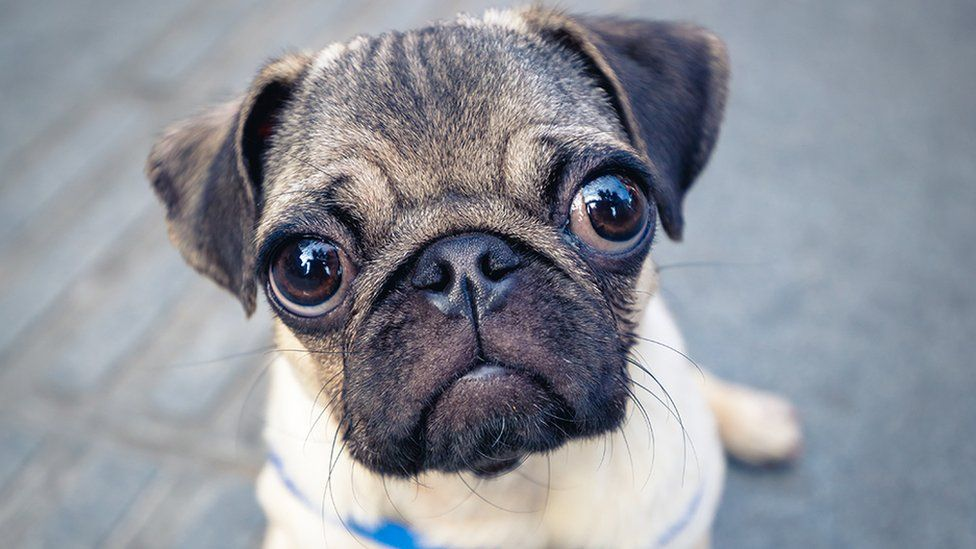
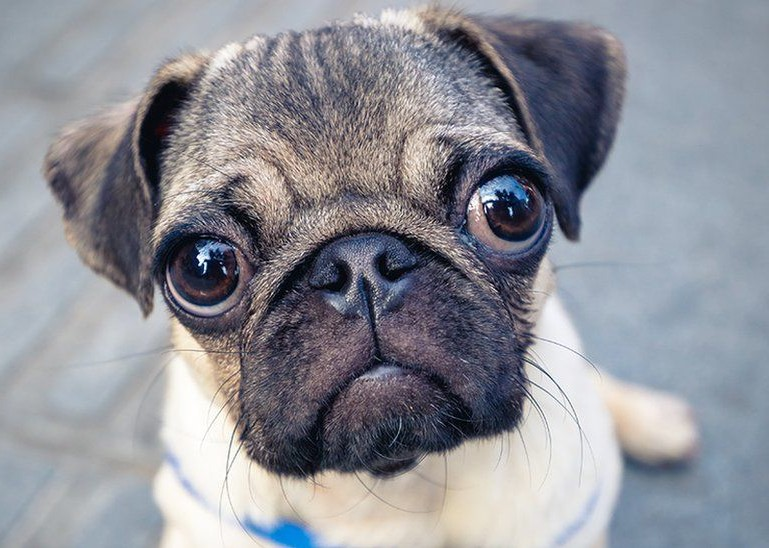
cropovane sve slike

diff --git a/WEB_project/macke.html b/WEB_project/macke.html
@@ -4,8 +4,14 @@
     <meta charset="UTF-8">
     <meta http-equiv="X-UA-Compatible" content="IE=edge">
     <meta name="viewport" content="width=device-width, initial-scale=1.0">
-    <link rel="stylesheet" href="css/stil.css">
     <link href="css/bootstrap.min.css" rel="stylesheet" />
+    <link href="css/fancybox/jquery.fancybox.css" rel="stylesheet">
+    <link href="css/jcarousel.css" rel="stylesheet" />
+    <link href="css/flexslider.css" rel="stylesheet" />
+    <link href="js/owl-carousel/owl.carousel.css" rel="stylesheet">
+    <link rel="stylesheet" href="https://cdnjs.cloudflare.com/ajax/libs/font-awesome/4.7.0/css/font-awesome.min.css">
+    <link href="css/style.css" rel="stylesheet" />
+    <link rel="stylesheet" href="css/stil.css">
     <title>Document</title>
 </head>
 <body>
@@ -18,11 +24,14 @@
                         <span class="icon-bar"></span>
                         <span class="icon-bar"></span>
                     </button>
-                    <a class="navbar-brand" href="index.html"><img src="img/logo.png" alt="logo" width="50px"/></a>
+                    <a class="navbar-brand" href="index.html"><img src="img/logo.png" alt="logo" width="80px"/></a>
+                </div>
+                <div class="navbar-header">
+                    <h2><a href="index.html" style="color: black; text-decoration: none;">SLAV Co. Azil</a></h2>
                 </div>
                 <div class="navbar-collapse collapse ">
                     <ul class="nav navbar-nav">
-                        <li class="active"><a href="index.html">Početna</a></li> 
+                        <li><a href="index.html">Početna</a></li> 
 						<li class="dropdown active">
 							<a href="#" class="dropdown-toggle" data-toggle="dropdown">Životinje<b class="caret"></b></a>
 							<ul class="dropdown-menu">
@@ -33,71 +42,66 @@
 						</li>
 						<li><a href="izgubljeni.html">Izgubljeni ljubimci</a></li>
                         <li><a href="dodaj.html">Dodaj oglas</a></li>
-                        <li><a href="mojnalog.html">Moj nalog</a></li>
-                        <li><a href="onama.html">O nama</a></li>
+                        <li><a href="pricing.html">Moj nalog</a></li>
+                        <li><a href="contact.html">O nama</a></li>
                     </ul>
                 </div>
             </div>
         </div>
 	</header>
+    
     <div class="container">
         <div class="row">
 
             <div class="col-md-4 col-sm-6 col-xs-12">
-                <div class="thumbnail thumbnail4">
-                    <img src="img/service1.jpg" alt="">
+                <div class="thumbnail">
+                    <img src="img/dog1.jpg" class="zivotinja_slika" alt="">
 
                     <div class="caption">
                         <h4>
                             <a href="#">
-                                Aliquam eu aliquet quam
+                                Mops Mara
                             </a>
                         </h4>
 
                         <p>
-                            Souvlaki ignitus carborundum e pluribus unumfacto lingo est igpay atinlay arquee
-                            selectus. non provisio incongruous feline nolo contendre. Gratuitous octopus niacin,
-                            sodium glutimate. Quote meon
+                            Mala Mara je tiha i povučena. Njene oči će raznežiti svakoga i zato budi baš ti kojih ćeh ih gledati stalno.
+                        </p>
+                        <a href="#" data-title="Read More" class="btn-link"><span>Više Informacija</span></a>
+                    </div>
+                </div>
+            </div>
+            <div class="col-md-4 col-sm-6 col-xs-12">
+                <div class="thumbnail">
+                    <img src="img/dog2.jpg" class="zivotinja_slika" alt="">
+
+                    <div class="caption">
+                        <h4>
+                            <a href="#">
+                                Husky Zola
+                            </a>
+                        </h4>
+
+                        <p>
+                            Najlepsi zimski pas, voli sneg i vrlo je odan. Potreban je samo jedan pogled u njegove oči da vas osvoji za ceo život.
                         </p>
                         <a href="#" data-title="Read More" class="btn-link"><span>Read More</span></a>
                     </div>
                 </div>
             </div>
             <div class="col-md-4 col-sm-6 col-xs-12">
-                <div class="thumbnail thumbnail4">
-                    <img src="img/service1.jpg" alt="">
+                <div class="thumbnail">
+                    <img src="img/dog3.jpg" class="zivotinja_slika" alt="">
 
                     <div class="caption">
                         <h4>
                             <a href="#">
-                                Factorial non deposit
+                                Jazavičar Lane
                             </a>
                         </h4>
 
                         <p>
-                            Enumfacto lingo est igpay atinlay arquee selectus.
-                            non provisio incongruous feline nolo contendre. Grat uitous octopus niacin, sodium
-                            glutimate. Quote meon an estimate et non interruptus stad
-                        </p>
-                        <a href="#" data-title="Read More" class="btn-link"><span>Read More</span></a>
-                    </div>
-                </div>
-            </div>
-            <div class="col-md-4 col-sm-6 col-xs-12">
-                <div class="thumbnail thumbnail4">
-                    <img src="img/service1.jpg" alt="">
-
-                    <div class="caption">
-                        <h4>
-                            <a href="#">
-                                Deposit quid proquo
-                            </a>
-                        </h4>
-
-                        <p>
-                            Arquee selectus non provisio incongruous feline nolo contendre. Gratuitous octopus
-                            niacin, sodium gluti mate. Quote meon an estimate et non interruptus stad ium. Sic
-                            tempus fugit esperanto
+                            Ima najzinimljiviji hod od svih pasa, jer zbog dužine tela prednje noge idu 2 sekunde pre zadnjih.
                         </p>
                         <a href="#" data-title="Read More" class="btn-link"><span>Read More</span></a>
                     </div>

diff --git a/WEB_project/index.html b/WEB_project/index.html
@@ -62,7 +62,7 @@
         <div id="main-slider" class="flexslider">
             <ul class="slides">
               <li>
-                <a href="macke.html"><img src="img/cats.jpg" alt="" />
+                <a href="macke.html"><img src="img/cats.jpg" alt="" class="pocetna_image"/>
                 <div class="flex-caption">
                    <div class="item_introtext"> 
 					<strong>Mačke</strong>
@@ -70,7 +70,7 @@
                 </div></a>
               </li>
               <li>
-                <a href="psi.html"><img src="img/dogs.jpg" alt="" />
+                <a href="psi.html"><img src="img/dogs.jpg" alt="" class="pocetna_image"/>
                 <div class="flex-caption">
                      <div class="item_introtext"> 
 					<strong>Psi</strong>
@@ -78,7 +78,7 @@
                 </div></a>
               </li>
               <li>
-                <a href="ptice.html"><img src="img/birds.jpg" alt="" />
+                <a href="ptice.html"><img src="img/birds.jpg" alt="" class="pocetna_image"/>
                 <div class="flex-caption">
                      <div class="item_introtext"> 
 					<strong>Ptice</strong>
@@ -148,33 +148,23 @@
                     <li data-target="#carousel-example-generic" data-slide-to="2" class="active">
                         <a href="#"></a>
                     </li>
-                    <li data-target="#carousel-example-generic" data-slide-to="3" class="">
-                        <a href="#"></a>
-                    </li>
                 </ol>
                 <div class="carousel-inner">
-                    <div class="item text-center">
+                    <div class="item text-center active">
                         <p>
-                            <img src="img/taxi.png" alt="taxi">
+                            <img src="img/taxi.png" class="baneri" alt="taxi">
                             
                         </p>
                     </div>
                     <div class="item">
                         <p>
-                            <img src="img/vibbet.png" alt="taxi">
+                            <img src="img/vibbet.png" class="baneri" alt="taxi">
                             
                         </p>
                     </div>
-                    <div class="item active">
-                        <p>Blanditiis praesentium voluptatum deleniti atque corrupti quos dolores et quas molestias excepturi sint occaecati cupiditate non provident, similique sunt in culpa qui officia deserunt mollitia animi.</p>
-                        <p>
-                            <b>- Tony Antonio -</b>
-                        </p>
-                    </div>
                     <div class="item">
-                        <p>Blanditiis praesentium voluptatum deleniti atque corrupti quos dolores et quas molestias excepturi sint occaecati cupiditate non provident, similique sunt in culpa qui officia deserunt mollitia animi.</p>
                         <p>
-                            <b>- Leena Doe -</b>
+                            <img src="img/etf.png" class="baneri" alt="taxi">
                         </p>
                     </div>
                 </div>

diff --git a/WEB_project/psi.html b/WEB_project/psi.html
@@ -54,8 +54,8 @@
         <div class="row">
 
             <div class="col-md-4 col-sm-6 col-xs-12">
-                <div class="thumbnail thumbnail4">
-                    <img src="img/dog1.jpg" alt="">
+                <div class="thumbnail">
+                    <img src="img/dog1.jpg" class="zivotinja_slika" alt="">
 
                     <div class="caption">
                         <h4>
@@ -72,8 +72,8 @@
                 </div>
             </div>
             <div class="col-md-4 col-sm-6 col-xs-12">
-                <div class="thumbnail thumbnail4">
-                    <img src="img/dog2.jpg" alt="">
+                <div class="thumbnail">
+                    <img src="img/dog2.jpg" class="zivotinja_slika" alt="">
 
                     <div class="caption">
                         <h4>
@@ -83,15 +83,15 @@
                         </h4>
 
                         <p>
-                            Najlepsi zimski pas, voli sneg i vrlo je odan.
+                            Najlepsi zimski pas, voli sneg i vrlo je odan. Potreban je samo jedan pogled u njegove oči da vas osvoji za ceo život.
                         </p>
                         <a href="#" data-title="Read More" class="btn-link"><span>Read More</span></a>
                     </div>
                 </div>
             </div>
             <div class="col-md-4 col-sm-6 col-xs-12">
-                <div class="thumbnail thumbnail4">
-                    <img src="img/dog3.jpg" alt="">
+                <div class="thumbnail">
+                    <img src="img/dog3.jpg" class="zivotinja_slika" alt="">
 
                     <div class="caption">
                         <h4>

diff --git a/WEB_project/css/stil.css b/WEB_project/css/stil.css
@@ -6,14 +6,9 @@
 	border: none;
 	padding: 0;
 	background: none;
+	padding:5px;
 }
-.thumbnail time {
-	background: #ae130c;
-	padding: 20px 0;
-	display: block;
-	text-indent: 12px;
-	color: #fff;
-}
+
 .thumbnail .caption {
 	color: #383838;
 	background: #ECECEC;
@@ -23,6 +18,11 @@
 .thumbnail:hover {
     padding: 0px;
 }
+
+.thumbnal>.caption{
+	font: 20px;
+}
+
 .thumbnail .caption a {
 	font: 20px;
 	color: #000000;
@@ -51,4 +51,17 @@ footer>.container>.row>.text-center>h5{
     color: rgba(255, 255, 255, 0.7);
     font-style: italic;
     
+}
+
+.pocetna_image{
+	object-fit:contain;
+    width:90vw;
+	height: 70vh;
+	background-color: #504f4f;
+}
+
+.baneri{
+	object-fit:fill;
+	height: 40vh;
+	width: 50vw;
 }
